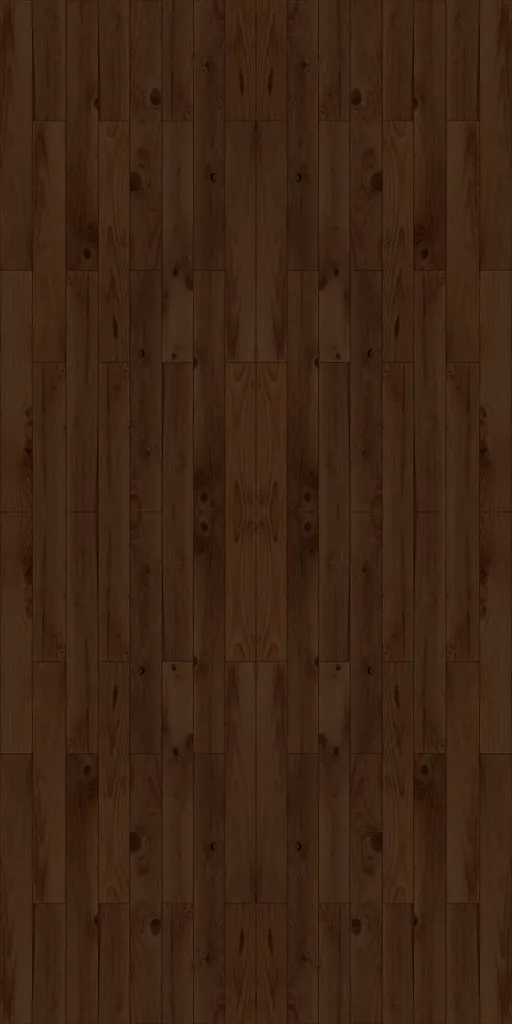
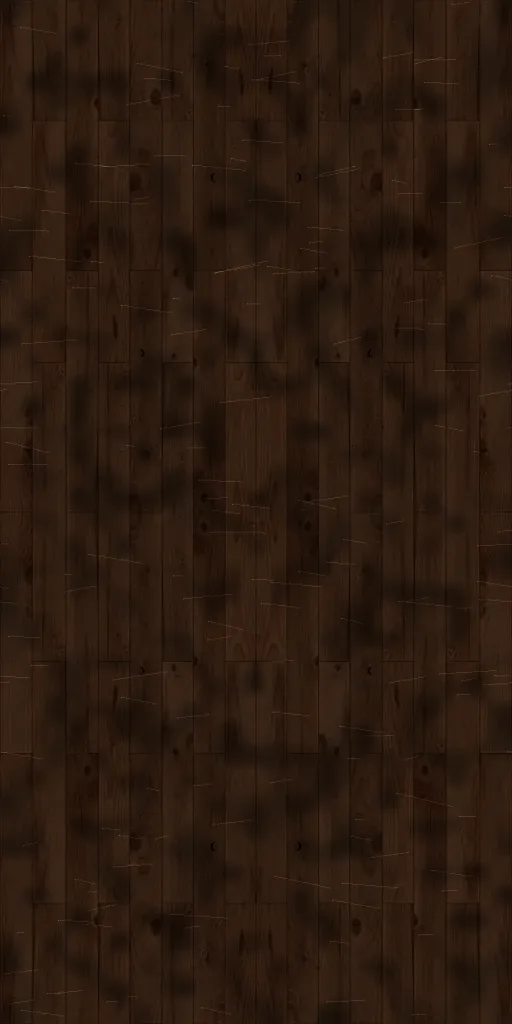
古屋と掲示板を土手の内側へ。切替ボタンを外し、棚を古家具風、本を古書の背（生成りの紙に墨の題簽）に
Claude-Session: https://claude.ai/code/session_015EYcsbobx6D71q5X4agjzW

diff --git a/index.html b/index.html
@@ -146,6 +146,19 @@ nav :focus-visible{outline:1px solid var(--soft);outline-offset:-6px}
 .sh-close{font:400 12px "Zen Old Mincho",serif!important;letter-spacing:.18em;padding:10px 4px!important}
 .sh-close:focus:not(:focus-visible){outline:none}
 .sh-body{padding-bottom:84px!important}
+.row::after{filter:sepia(.25) contrast(1.05);box-shadow:0 2px 0 #1e120a,0 16px 22px -6px rgba(0,0,0,.8),inset 0 2px 0 rgba(255,220,170,.22),inset 0 -5px 8px rgba(0,0,0,.45),inset 0 0 0 1px rgba(0,0,0,.25)!important;border-radius:1px}
+.sh-body{filter:sepia(.12)}
+.shelf{background-color:#140d08!important}
+/* 古書の背：生成り・灰・クラフトの紙に、墨の題簽 */
+.book{color:#2a2118!important;font-weight:600;border-radius:1px 2px 1px 1px!important;
+ background:linear-gradient(90deg,rgba(60,40,20,.28),rgba(255,248,230,.10) 18%,rgba(255,248,230,.05) 70%,rgba(60,40,20,.32)),url(tex/paper.webp) calc(var(--px,0)*1px) 0/200px auto,var(--bg)!important;background-blend-mode:normal,multiply,normal!important;
+ box-shadow:inset 0 0 0 1px rgba(80,55,30,.25),inset 0 0 18px rgba(90,60,30,.35),0 2px 4px rgba(0,0,0,.5)!important}
+.book::before,.book::after{display:none!important}
+.book .t{border:1.4px solid rgba(42,33,24,.85);padding:9px 3px;box-sizing:content-box;margin-top:10px!important}
+.book.acc .t{background:var(--acc);border-color:#5f78a0;box-shadow:0 0 0 2px var(--acc),0 0 0 3.4px #5f78a0;color:#2a1810}
+.book.plain .t{border-color:transparent}
+.book .k{font:500 9px "Zen Old Mincho",serif!important;letter-spacing:.2em;opacity:.65!important;bottom:12px!important;writing-mode:vertical-rl!important;transform:translateX(-50%)!important}
+.book .gr2{opacity:.4!important}
 .pages{position:fixed;z-index:25;left:50%;transform:translateX(-50%);bottom:calc(env(safe-area-inset-bottom) + 46px);display:flex;gap:2px;padding:3px;border-radius:999px;background:rgba(20,30,22,.28);backdrop-filter:blur(8px);-webkit-backdrop-filter:blur(8px)}
 .pages button{font:12px "Zen Old Mincho",serif;letter-spacing:.2em;color:rgba(255,253,246,.7);background:none;border:0;border-radius:999px;padding:7px 12px 7px 14px;min-height:32px;cursor:pointer;transition:background .6s,color .6s}
 .pages button.cur{background:rgba(255,253,246,.88);color:#24301f}
@@ -262,7 +275,6 @@ html,body{overscroll-behavior:none;touch-action:pan-x pan-y}
  <div class="pb-body"><div class="pb-board" id="pinBody"></div></div>
  <p class="sh-hint">右へスワイプで草原へ</p>
 </section>
-<div class="pages" id="pages" role="tablist" aria-label="ページ"><button type="button" data-p="pins">写真</button><button type="button" data-p="field" class="cur">草原</button><button type="button" data-p="shelf">憶録</button></div>
 <p class="swipe-hint" id="swipeHint">← 写真の掲示板　　憶録の本棚 →</p>
 <div class="over" id="postView" role="dialog" aria-modal="true" aria-label="手紙">
  <button class="close" type="button" data-close>close</button>
@@ -683,17 +695,17 @@ function stepCam(t){if(RM){cam.style.transform='';return}
 /* ── 憶録の本棚：右へスワイプで開く ── */
 const seeded=s=>()=>{s|=0;s=s+0x6D2B79F5|0;let t=Math.imul(s^s>>>15,1|s);t=t+Math.imul(t^t>>>7,61|t)^t;return((t^t>>>14)>>>0)/4294967296};
 const shelf=document.getElementById('shelf'),shelfBody=document.getElementById('shelfBody');
-const CLOTH=[["#4f5b45","#efe6d0"],["#7a3b2e","#f2e2c9"],["#2f3e52","#e7e0cf"],["#c9b28a","#2b2219"],["#5d4a3a","#f0e4cc"],["#1f2a24","#d9cfb8"],["#8a6d3b","#f6ecd6"],["#e8dfcc","#3a2e22"],["#3d2f3f","#eadbc6"],["#6f7d6a","#f4ecdc"]];
+const CLOTH=[["#d9cdb2"],["#cfc3a6"],["#c6bca4"],["#ddd3bc"],["#bfb293"],["#d4c39f"],["#c9c2b0"],["#e0d5bb"],["#b8ab8c"],["#d6cbb1"]];
 function bookEl(title,kind,onOpen,opt={}){
  const b=document.createElement('button');b.type='button';b.className='book';const r=seeded(title.length*31+(title.charCodeAt(0)||7)*7+(opt.seed||0));
- const c=CLOTH[Math.floor(r()*CLOTH.length)];b.style.setProperty('--bg',c[0]);b.style.setProperty('--fg',c[1]);b.style.setProperty('--px',Math.round(r()*260));
+ const c=CLOTH[Math.floor(r()*CLOTH.length)];b.style.setProperty('--bg',c[0]);const v=r();if(v<.22){b.classList.add('acc');b.style.setProperty('--acc',['#e0906a','#d98b62','#cf9a74'][Math.floor(r()*3)])}else if(v<.36)b.classList.add('plain');b.style.setProperty('--px',Math.round(r()*260));
  const m=title.match(/^#(\d+)\s*/),body=m?title.slice(m[0].length):title,n=[...body].length+(m?1:0);
- const h=Math.round(170+r()*56),ADV=14.9,COL=17.2,cap=Math.max(4,Math.floor((h-58)/ADV));
+ const h=Math.round(170+r()*56),ADV=14.9,COL=17.2,cap=Math.max(4,Math.floor((h-84)/ADV));
  const k=Math.max(1,Math.ceil(n/cap)),per=Math.ceil(n/k);
- const w=opt.img?Math.round(h*.56):Math.round(Math.max(36,k*COL+20+r()*6));
+ const w=opt.img?Math.round(h*.56):Math.round(Math.max(40,k*COL+30+r()*6));
  b.style.height=h+'px';b.style.width=w+'px';if(r()<.14)b.style.setProperty('--lean',(r()<.5?-1:1)*(3+r()*3)+'deg');
  if(opt.img){b.classList.add('ph');b.style.setProperty('--img',`url("${opt.img}")`)}
- const t=document.createElement('span');t.className='t';t.style.height=(per*ADV+ADV*.45).toFixed(1)+'px';
+ const t=document.createElement('span');t.className='t';t.style.height=(per*ADV+ADV*.45).toFixed(1)+'px';const cap2=Math.max(4,Math.floor((h-80)/ADV));if(per>cap2){}
  if(m){const u=document.createElement('span');u.className='tcy';u.textContent='#'+m[1];t.appendChild(u)}
  t.appendChild(document.createTextNode(body));
  const kk=document.createElement('span');kk.className='k';kk.textContent=kind;const g=document.createElement('span');g.className='gr2';
@@ -725,7 +737,7 @@ const hint=document.getElementById('swipeHint');setTimeout(()=>hint.classList.ad
 
 /* ── 古屋：土手の上に置く。クリックで本棚へ ── */
 const hut=document.getElementById('hut');
-function placeHut(){const mob=W<600,bx=mob?(fit.ox<0?(-fit.ox+W*.18)/fit.s:.12*BG.w):.11*BG.w,by=BG.h*(mob?.705:.72);const p=ip([bx,by]);const w=mob?Math.min(130,W*.34):clamp(W*.1,110,170);hut.style.width=w+'px';const h=w*596/900*.96;hut.style.left=(p[0]-w/2).toFixed(1)+'px';hut.style.top=(p[1]-h).toFixed(1)+'px'}
+function placeHut(){const mob=W<600,bx=mob?(fit.ox<0?(-fit.ox+W*.18)/fit.s:.12*BG.w):.2*BG.w,by=BG.h*(mob?.705:.8);const p=ip([bx,by]);const w=mob?Math.min(130,W*.34):clamp(W*.12,130,200);hut.style.width=w+'px';const h=w*596/900*.96;hut.style.left=(p[0]-w/2).toFixed(1)+'px';hut.style.top=(p[1]-h).toFixed(1)+'px'}
 hut.addEventListener('click',openShelf);
 
 /* ── 作品を3Dで手に取る：ドラッグで回転、ホイール・ピンチで拡大、ダブルクリックで戻す ── */
@@ -775,18 +787,12 @@ function openPins(){if(!pinBuilt){buildPins();pinBuilt=true}closeShelf();pinboar
 function closePins(){pinboard.classList.remove('on');pinboard.setAttribute('aria-hidden','true')}
 boardEl.addEventListener('click',openPins);document.getElementById('pinBtn').addEventListener('click',openPins);document.getElementById('pinClose').addEventListener('click',closePins);
 addEventListener('keydown',e=>{if(e.key==='Escape'&&pinboard.classList.contains('on')&&!view.classList.contains('on'))closePins()});
-function placeBoard(){const mob=W<600,bx=mob?(fit.ox<0?(-fit.ox+W*.86)/fit.s:.86*BG.w):.86*BG.w,by=BG.h*(mob?.73:.75);const p=ip([bx,by]);const w=mob?Math.min(100,W*.26):clamp(W*.075,84,130);boardEl.style.width=w+'px';const h=w*509/760*.98;boardEl.style.left=(p[0]-w/2).toFixed(1)+'px';boardEl.style.top=(p[1]-h).toFixed(1)+'px'}
-
-/* ── 写真・草原・憶録 のページ切替 ── */
-const pagesEl=document.getElementById('pages');
-function syncPages(){const sh=shelf.classList.contains('on'),pb=pinboard.classList.contains('on');const cur=sh?'shelf':pb?'pins':'field';pagesEl.querySelectorAll('button').forEach(b=>{b.classList.toggle('cur',b.dataset.p===cur);b.setAttribute('aria-selected',b.dataset.p===cur)})}
-pagesEl.addEventListener('click',e=>{const b=e.target.closest('button');if(!b)return;const p=b.dataset.p;if(p==='field'){closeShelf();closePins()}else if(p==='shelf')openShelf();else openPins()});
-new MutationObserver(syncPages).observe(shelf,{attributes:true,attributeFilter:['class']});new MutationObserver(syncPages).observe(pinboard,{attributes:true,attributeFilter:['class']});
+function placeBoard(){const mob=W<600,bx=mob?(fit.ox<0?(-fit.ox+W*.86)/fit.s:.86*BG.w):.76*BG.w,by=BG.h*(mob?.73:.8);const p=ip([bx,by]);const w=mob?Math.min(100,W*.26):clamp(W*.085,96,146);boardEl.style.width=w+'px';const h=w*509/760*.98;boardEl.style.left=(p[0]-w/2).toFixed(1)+'px';boardEl.style.top=(p[1]-h).toFixed(1)+'px'}
 
 /* ── 川べりの小物：ポスト・机のノート・木箱 ── */
 const postEl=document.getElementById('post'),deskEl=document.getElementById('desk'),boxEl=document.getElementById('box'),postView=document.getElementById('postView'),noteView=document.getElementById('noteView');
 function placeProp(el,dx,mx,yf,wd,wm,ar){const mob=W<600,bx=mob?(fit.ox<0?(-fit.ox+W*mx)/fit.s:mx*BG.w):dx*BG.w;const p=ip([bx,BG.h*yf]);const w=mob?wm:clamp(W*wd,wm,wm*1.9);el.style.width=w+'px';let top=p[1]-w*ar;const lim=(mob?VH-150:VH-70)-w*ar;if(top>lim)top=lim;el.style.left=(p[0]-w/2).toFixed(1)+'px';el.style.top=top.toFixed(1)+'px'}
-function placeProps(){placeProp(boxEl,.25,.15,.88,.055,52,401/600);placeProp(deskEl,.36,.4,.94,.075,70,460/700);placeProp(postEl,.47,.64,.955,.03,30,420/278)}
+function placeProps(){placeProp(boxEl,.33,.15,.92,.055,52,401/600);placeProp(deskEl,.45,.4,.95,.075,70,460/700);placeProp(postEl,.535,.64,.95,.03,30,420/278)}
 const nl=document.getElementById('noteList');NOTES.forEach(([t,u])=>{const li=document.createElement('li');const a=document.createElement('a');a.href=u;a.target='_blank';a.rel='noopener';a.textContent=t;li.appendChild(a);nl.appendChild(li)});
 postEl.addEventListener('click',()=>show(postView));deskEl.addEventListener('click',()=>show(noteView));boxEl.addEventListener('click',openShelf);
 [postView,noteView].forEach(v=>v.addEventListener('click',e=>{if(e.target===v||e.target.hasAttribute('data-close'))v.classList.remove('on')}));
